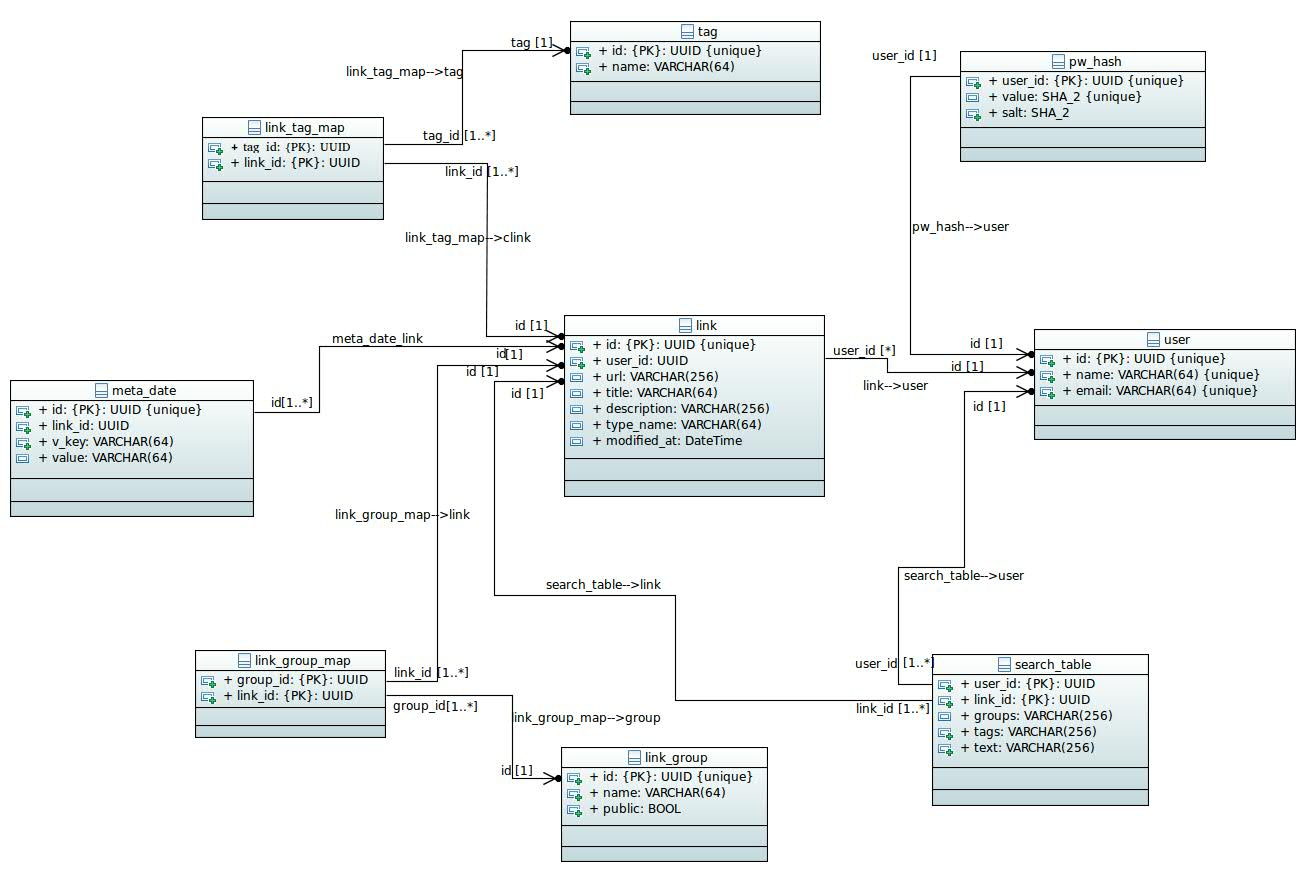
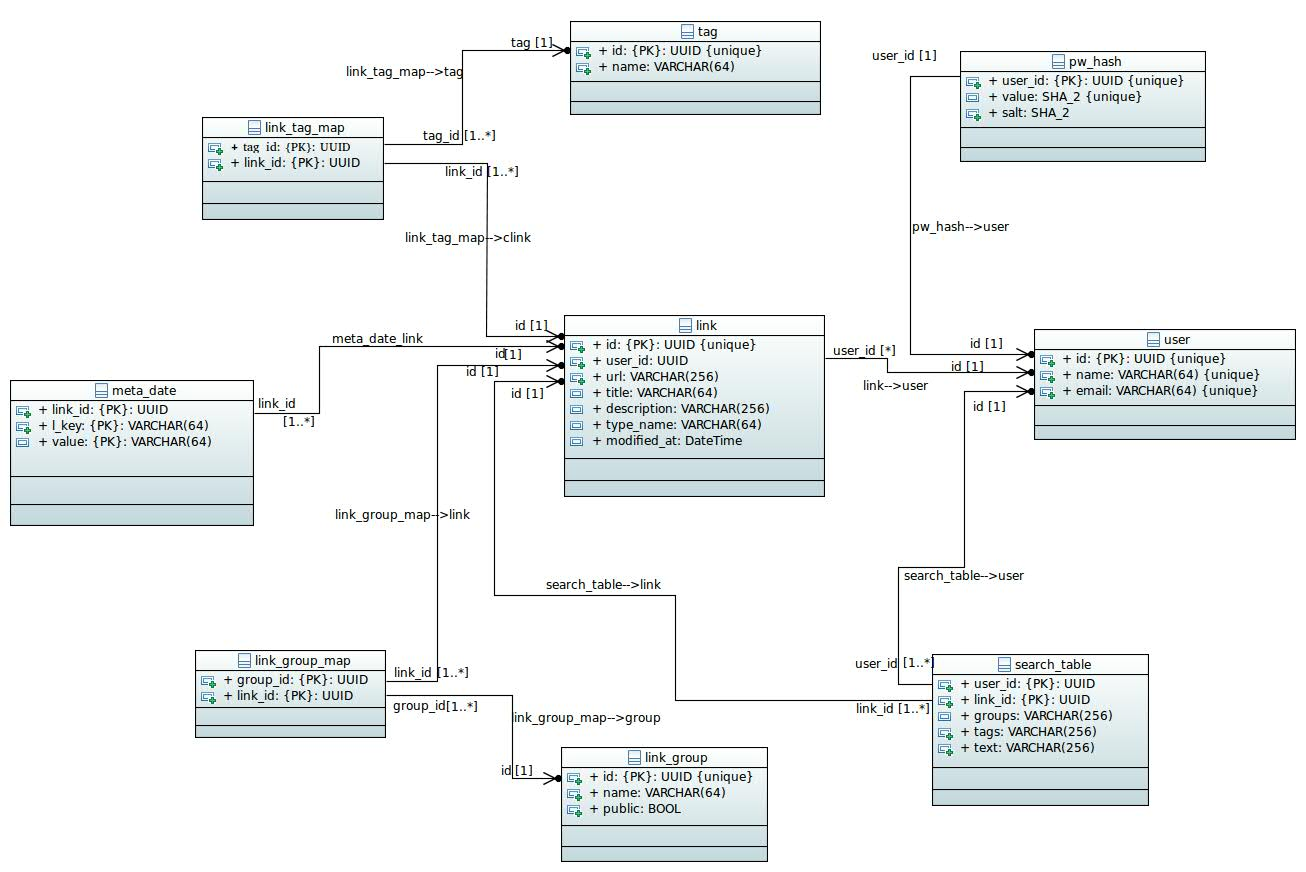
remove id from table meta_data and and make the combi link_id, v_key and value as primary key

diff --git a/de.sahabe.backend/database/impl/InitSahabeDB.py b/de.sahabe.backend/database/impl/InitSahabeDB.py
@@ -94,13 +94,12 @@ def run(host="localhost", user="sahabe", pw="sahabe", db="sahabe"):
     """ meta_data """ 
     DBApiModule.createTable(conn,
                             "meta_data",
-                            "id",
+                            "link_id, l_key, value",
                             {},
-                            {"link_id", "v_key", "value"},
+                            {"link_id", "l_key", "value"},
                             {"link_id":"link.id"},
-                            "id", "link_id", "v_key", "value",
-                            id=dt.UUID, link_id=dt.UUID,
-                            v_key=dt.VCHAR64, value=dt.VCHAR64)
+                            "link_id", "l_key", "value",
+                            link_id=dt.UUID, l_key=dt.VCHAR64, value=dt.VCHAR64)
     
     """ pw_hash """
     DBApiModule.createTable(conn,
